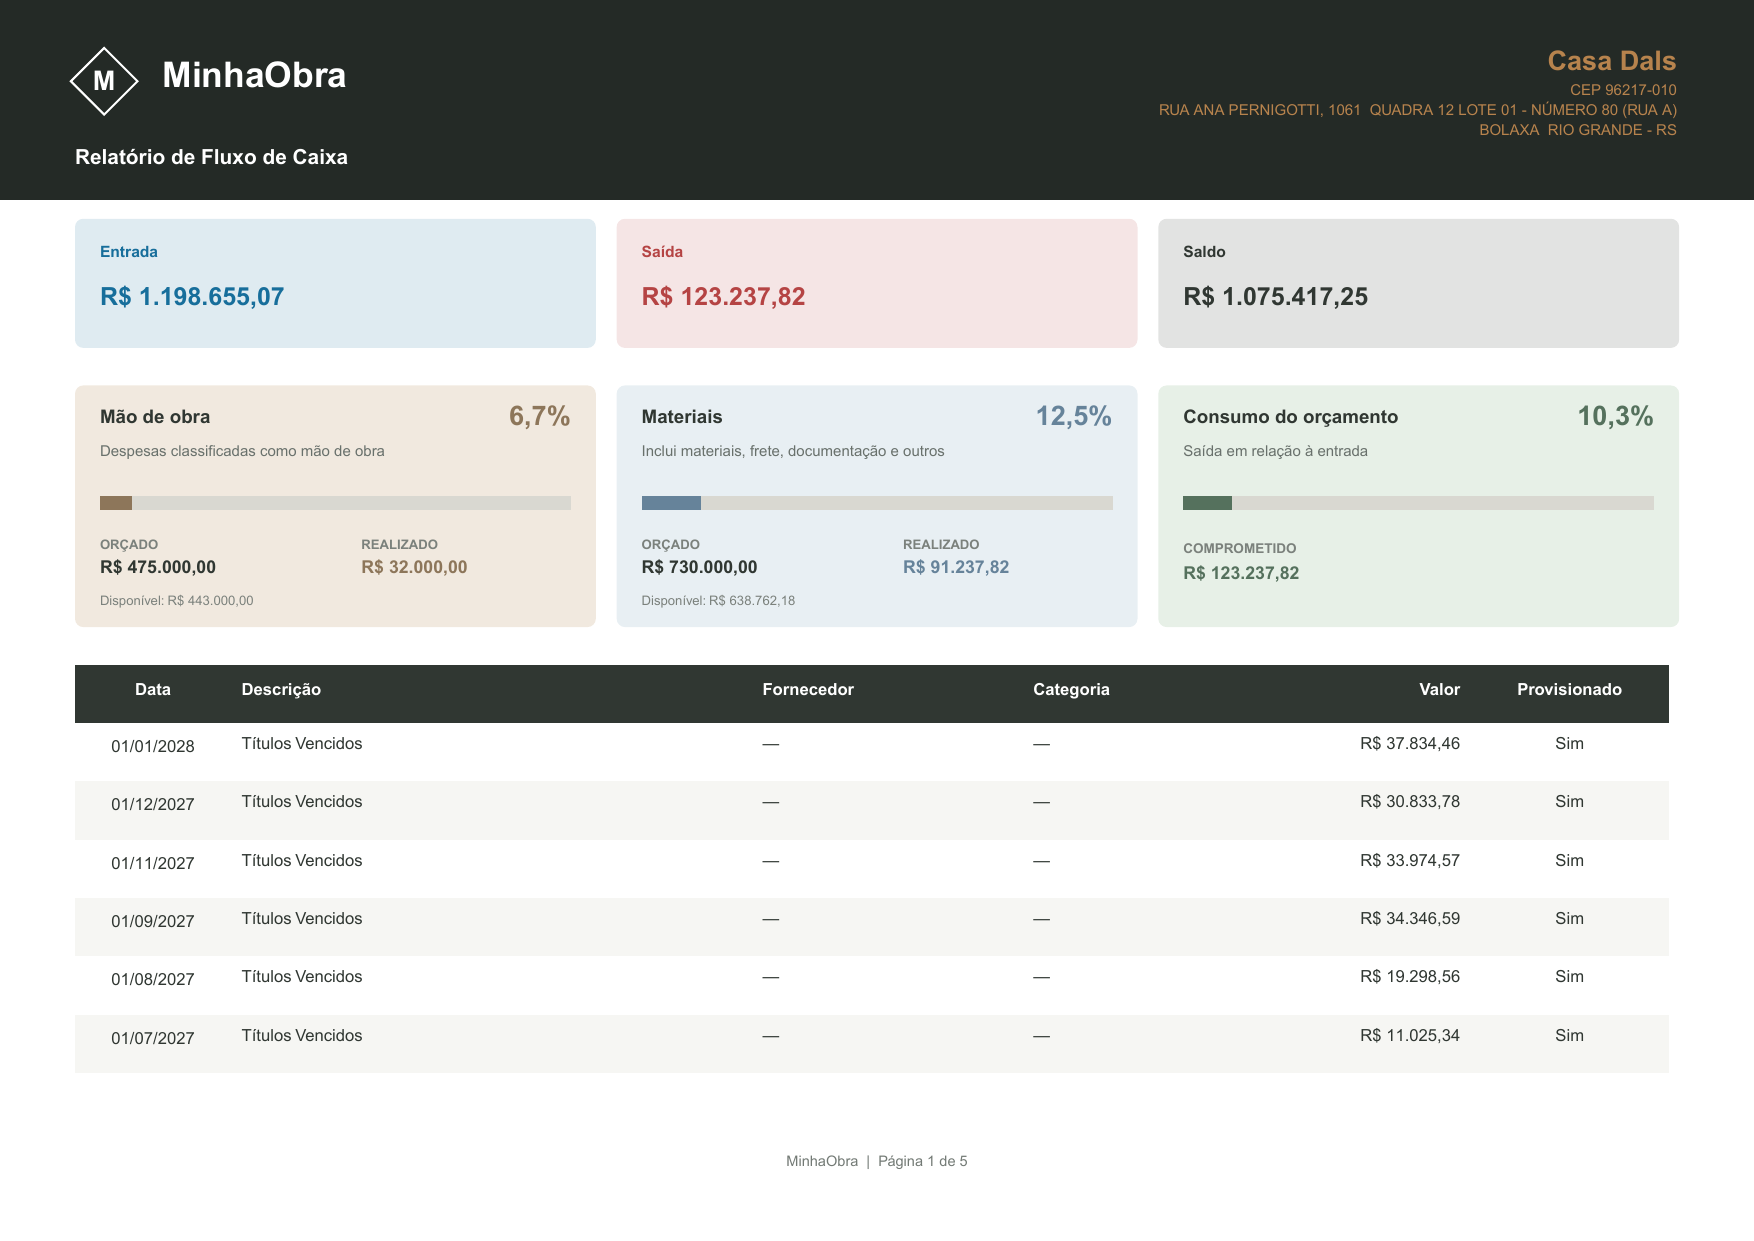
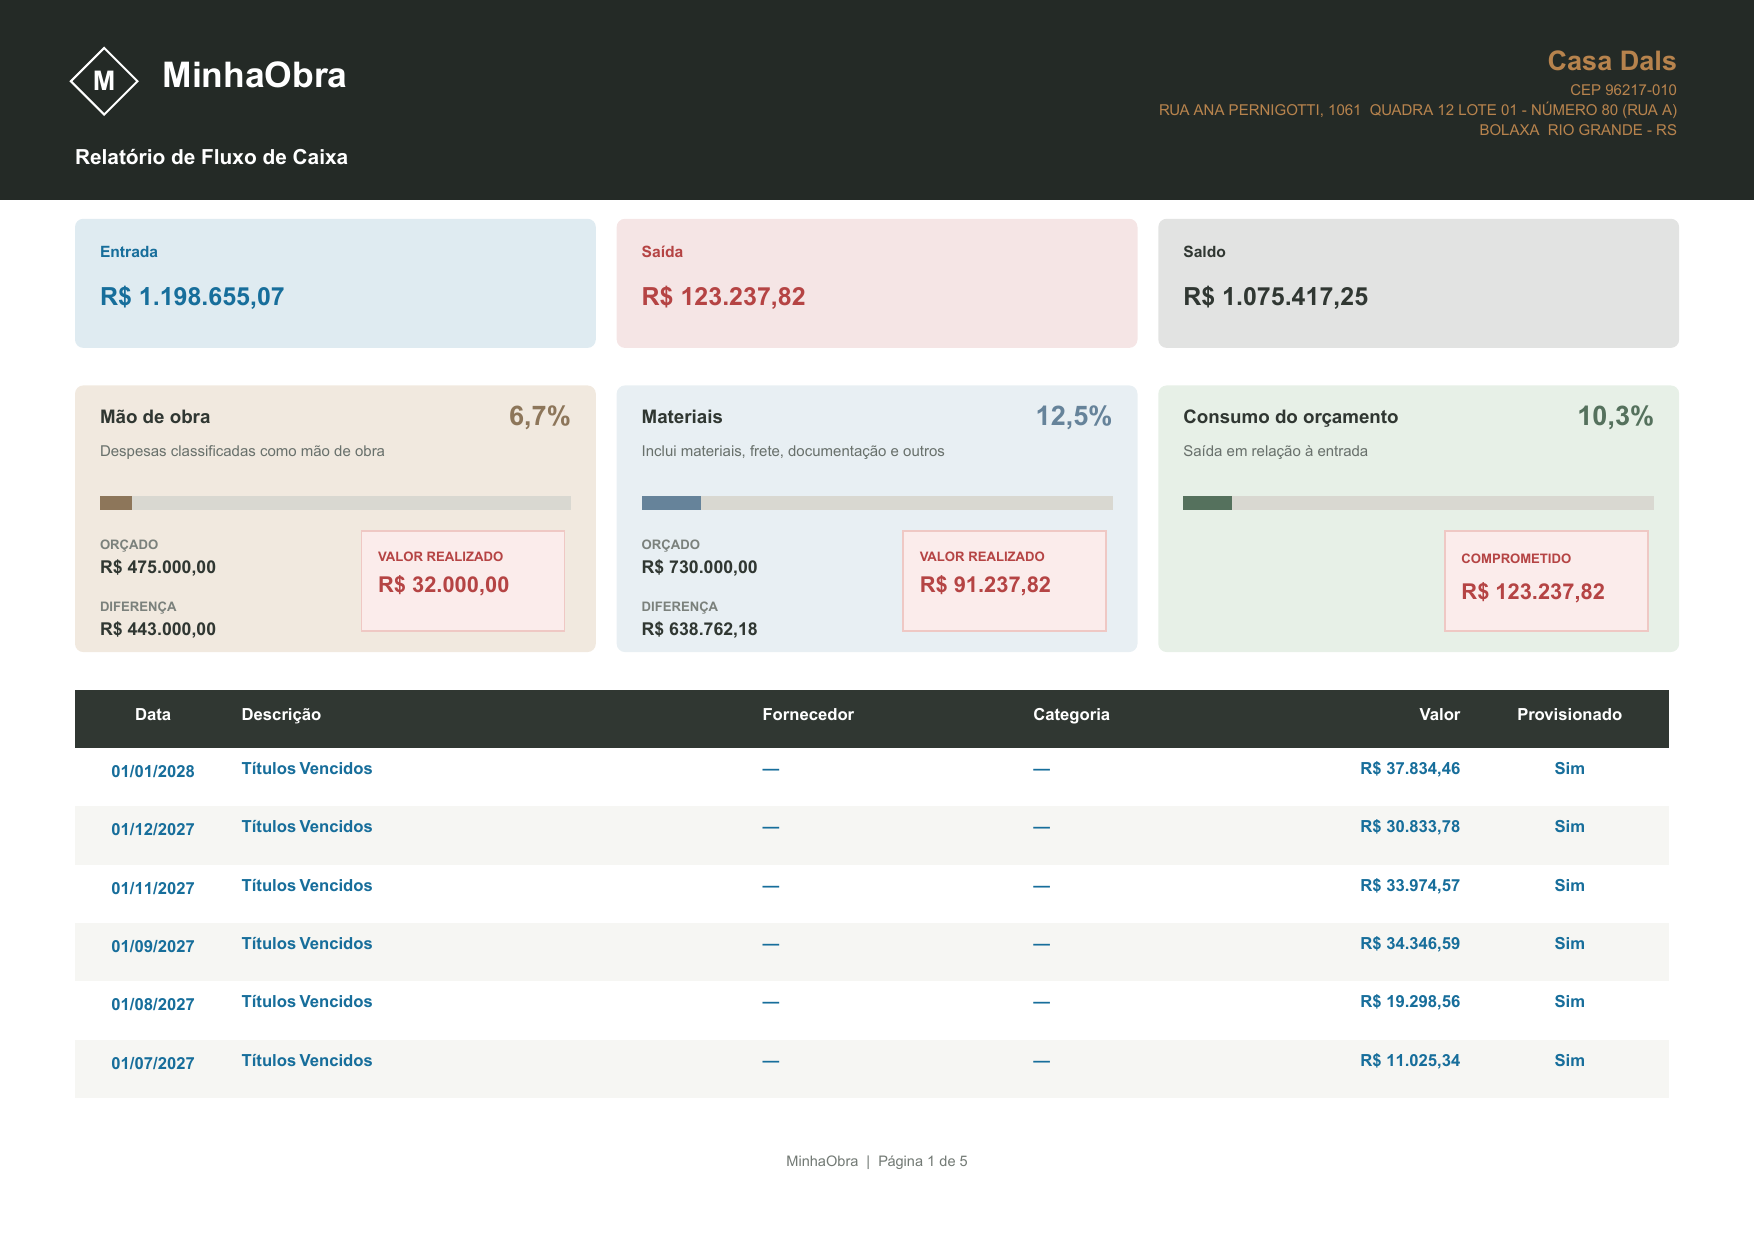
teste

diff --git a/apps/api/src/modules/relatorios/planning-report.service.ts b/apps/api/src/modules/relatorios/planning-report.service.ts
@@ -57,8 +57,7 @@ export function createCashFlowPdf(report: Awaited<ReturnType<typeof getCashFlowR
  {label:'Fornecedor',width:130,value:r=>r.fornecedor||'—'},
  {label:'Categoria',width:105,value:r=>r.categoria||'—'},
  {label:'Valor',width:110,value:r=>formatMoney(r.valor),align:'right'},
- {label:'Provisionado',width:95,value:r=>r.provisionado?'Sim':'Não',align:'center'}])
- pdfReportTotal(pdf,'Total do Fluxo de Caixa',formatMoney(report.rows.reduce((total,row)=>total+Number(row.valor),0)))
+ {label:'Provisionado',width:95,value:r=>r.provisionado?'Sim':'Não',align:'center'}],{rowTextColor:row=>Number(row.valor)>0?'#176e9b':undefined,rowBold:row=>Number(row.valor)>0})
  return finishReportPdf(pdf)
 }
 
@@ -74,7 +73,7 @@ function pdfCashFlowBudgetCards(pdf: PDFKit.PDFDocument, report: Awaited<ReturnT
   {title:'Materiais',description:'Inclui materiais, frete, documentação e outros',budget:materialsBudget,spent:materialsSpent,color:'#66839a',background:'#e8eff3'},
   {title:'Consumo do orçamento',description:'Saída em relação à entrada',budget:entries,spent:exits,color:consumptionColor,background:consumption>=70?'#f8e5e2':consumption>=50?'#f8f0d9':'#e7f0e7',consumption:true},
  ]
- const left=36,width=770,gap=10,height=116
+ const left=36,width=770,gap=10,height=128
  if(pdf.y+height>530)pdf.addPage()
  const y=pdf.y,cardWidth=(width-gap*2)/3
  cards.forEach((card,index)=>{
@@ -88,15 +87,22 @@ function pdfCashFlowBudgetCards(pdf: PDFKit.PDFDocument, report: Awaited<ReturnT
   pdf.rect(x+12,y+53,cardWidth-24,7).fill('#d9d8d1')
   if(track>0)pdf.rect(x+12,y+53,(cardWidth-24)*track/100,7).fill(card.color)
   if(card.consumption){
-   pdf.font('Helvetica-Bold').fontSize(6.5).fillColor('#7b817c').text('COMPROMETIDO',x+12,y+76,{width:cardWidth-24,lineBreak:false})
-   pdf.font('Helvetica-Bold').fontSize(8.5).fillColor(card.color).text(formatMoney(card.spent),x+12,y+87,{width:cardWidth-24,lineBreak:false})
+   const committedX=x+cardWidth*.55,committedY=y+70,committedWidth=cardWidth*.39,committedHeight=48
+   pdf.rect(committedX,committedY,committedWidth,committedHeight).fill('#fbeceb')
+   pdf.lineWidth(.8).strokeColor('#efc8c4').rect(committedX,committedY,committedWidth,committedHeight).stroke()
+   pdf.font('Helvetica-Bold').fontSize(6.3).fillColor('#b54444').text('COMPROMETIDO',committedX+8,committedY+11,{width:committedWidth-16,lineBreak:false})
+   pdf.font('Helvetica-Bold').fontSize(10.5).fillColor('#b54444').text(formatMoney(card.spent),committedX+8,committedY+25,{width:committedWidth-16,lineBreak:false})
   }else{
    const difference=card.budget - card.spent
+   const realizedX=x+cardWidth*.55,realizedY=y+70,realizedWidth=cardWidth*.39,realizedHeight=48
+   pdf.rect(realizedX,realizedY,realizedWidth,realizedHeight).fill('#fbeceb')
+   pdf.lineWidth(.8).strokeColor('#efc8c4').rect(realizedX,realizedY,realizedWidth,realizedHeight).stroke()
    pdf.font('Helvetica-Bold').fontSize(6.3).fillColor('#7b817c').text('ORÇADO',x+12,y+74,{width:cardWidth*.42,lineBreak:false})
-   pdf.text('REALIZADO',x+cardWidth*.55,y+74,{width:cardWidth*.35,lineBreak:false})
    pdf.font('Helvetica-Bold').fontSize(8.5).fillColor('#303732').text(formatMoney(card.budget),x+12,y+84,{width:cardWidth*.42,lineBreak:false})
-   pdf.fillColor(card.color).text(formatMoney(card.spent),x+cardWidth*.55,y+84,{width:cardWidth*.35,lineBreak:false})
-   pdf.font('Helvetica').fontSize(6.3).fillColor('#7b817c').text(`Disponível: ${formatMoney(difference)}`,x+12,y+101,{width:cardWidth-24,lineBreak:false})
+   pdf.font('Helvetica-Bold').fontSize(6.3).fillColor('#b54444').text('VALOR REALIZADO',realizedX+8,realizedY+10,{width:realizedWidth-16,lineBreak:false})
+   pdf.font('Helvetica-Bold').fontSize(10.5).fillColor('#b54444').text(formatMoney(card.spent),realizedX+8,realizedY+22,{width:realizedWidth-16,lineBreak:false})
+   pdf.font('Helvetica-Bold').fontSize(6.3).fillColor('#7b817c').text('DIFERENÇA',x+12,y+104,{width:cardWidth*.42,lineBreak:false})
+   pdf.font('Helvetica-Bold').fontSize(8.5).fillColor('#303732').text(formatMoney(difference),x+12,y+114,{width:cardWidth*.42,lineBreak:false})
   }
  })
  pdf.y=y+height+18

diff --git a/apps/api/src/shared/report-pdf.ts b/apps/api/src/shared/report-pdf.ts
@@ -62,7 +62,7 @@ export function pdfReportIndicators(pdf:PDFKit.PDFDocument,indicators:ReportIndi
  })
  pdf.y=y+height+18
 }
-export function pdfTable<T>(pdf:PDFKit.PDFDocument,rows:T[],columns:ReportColumn<T>[],options:{parent?:(row:T)=>boolean;keepNext?:(row:T)=>boolean;secondary?:boolean;rowBackground?:(row:T)=>string|undefined;rowTextColor?:(row:T)=>string|undefined}={}){
+export function pdfTable<T>(pdf:PDFKit.PDFDocument,rows:T[],columns:ReportColumn<T>[],options:{parent?:(row:T)=>boolean;keepNext?:(row:T)=>boolean;secondary?:boolean;rowBackground?:(row:T)=>string|undefined;rowTextColor?:(row:T)=>string|undefined;rowBold?:(row:T)=>boolean}={}){
  const left=36,width=columns.reduce((n,c)=>n+c.width,0),bottom=530,lineHeight=11
  const tableHeader=()=>{
   const y=pdf.y
@@ -95,7 +95,7 @@ export function pdfTable<T>(pdf:PDFKit.PDFDocument,rows:T[],columns:ReportColumn
   return lines
  }
  const cells=(row:T)=>columns.map(c=>[
-  ...wrap(c.value(row),c.width-10,options.parent?.(row)?'Helvetica-Bold':'Helvetica',8).map(text=>({text,secondary:false})),
+  ...wrap(c.value(row),c.width-10,(options.parent?.(row)||options.rowBold?.(row))?'Helvetica-Bold':'Helvetica',8).map(text=>({text,secondary:false})),
   ...(c.secondary?.(row)?wrap(c.secondary(row),c.width-10,'Helvetica',7).map(text=>({text,secondary:true})):[])
  ])
  if(pdf.y+56>bottom)pdf.addPage()
@@ -107,7 +107,7 @@ export function pdfTable<T>(pdf:PDFKit.PDFDocument,rows:T[],columns:ReportColumn
   let offset=0
   while(offset<lineCount){
    const count=Math.min(lineCount-offset,Math.max(1,Math.floor((bottom-pdf.y-14)/lineHeight)))
-   const h=Math.max(28,count*lineHeight+14),y=pdf.y,parent=options.parent?.(row)
+   const h=Math.max(28,count*lineHeight+14),y=pdf.y,parent=options.parent?.(row),rowBold=options.rowBold?.(row)
    const rowBackground=options.rowBackground?.(row)
    pdf.rect(left,y,width,h).fill(rowBackground||(parent?'#eae6df':index%2?'#f6f6f3':'#ffffff'))
    let x=left
@@ -122,8 +122,9 @@ export function pdfTable<T>(pdf:PDFKit.PDFDocument,rows:T[],columns:ReportColumn
     if(badgeColor)pdf.roundedRect(x+8,badgeY,c.width-16,badgeHeight,3).fill(badgeColor)
     const textY=badgeColor?badgeY+(badgeHeight-textHeight)/2:c.verticalAlign==='middle'?y+(h-textHeight)/2:y+7
     visibleLines.forEach((line,li)=>{
-     const color=c.textColor?.(row)||(cellBackground?c.cellTextColor?.(row)||reportContrastColor(cellBackground):rowBackground?options.rowTextColor?.(row)||reportContrastColor(rowBackground):badgeColor&&!line.secondary?c.badgeTextColor?.(row)||reportContrastColor(badgeColor):line.secondary?'#737a75':'#303732')
-     pdf.font(parent&&!line.secondary?'Helvetica-Bold':'Helvetica').fontSize(line.secondary?7:8).fillColor(color).text(line.text,x+5,textY+li*lineHeight,{width:c.width-10,align:c.align||'left',lineBreak:false})
+     const rowTextColor=options.rowTextColor?.(row)
+     const color=c.textColor?.(row)||(cellBackground?c.cellTextColor?.(row)||reportContrastColor(cellBackground):rowTextColor||(rowBackground?reportContrastColor(rowBackground):badgeColor&&!line.secondary?c.badgeTextColor?.(row)||reportContrastColor(badgeColor):line.secondary?'#737a75':'#303732'))
+     pdf.font((parent||rowBold)&&!line.secondary?'Helvetica-Bold':'Helvetica').fontSize(line.secondary?7:8).fillColor(color).text(line.text,x+5,textY+li*lineHeight,{width:c.width-10,align:c.align||'left',lineBreak:false})
     })
     x+=c.width
    })
